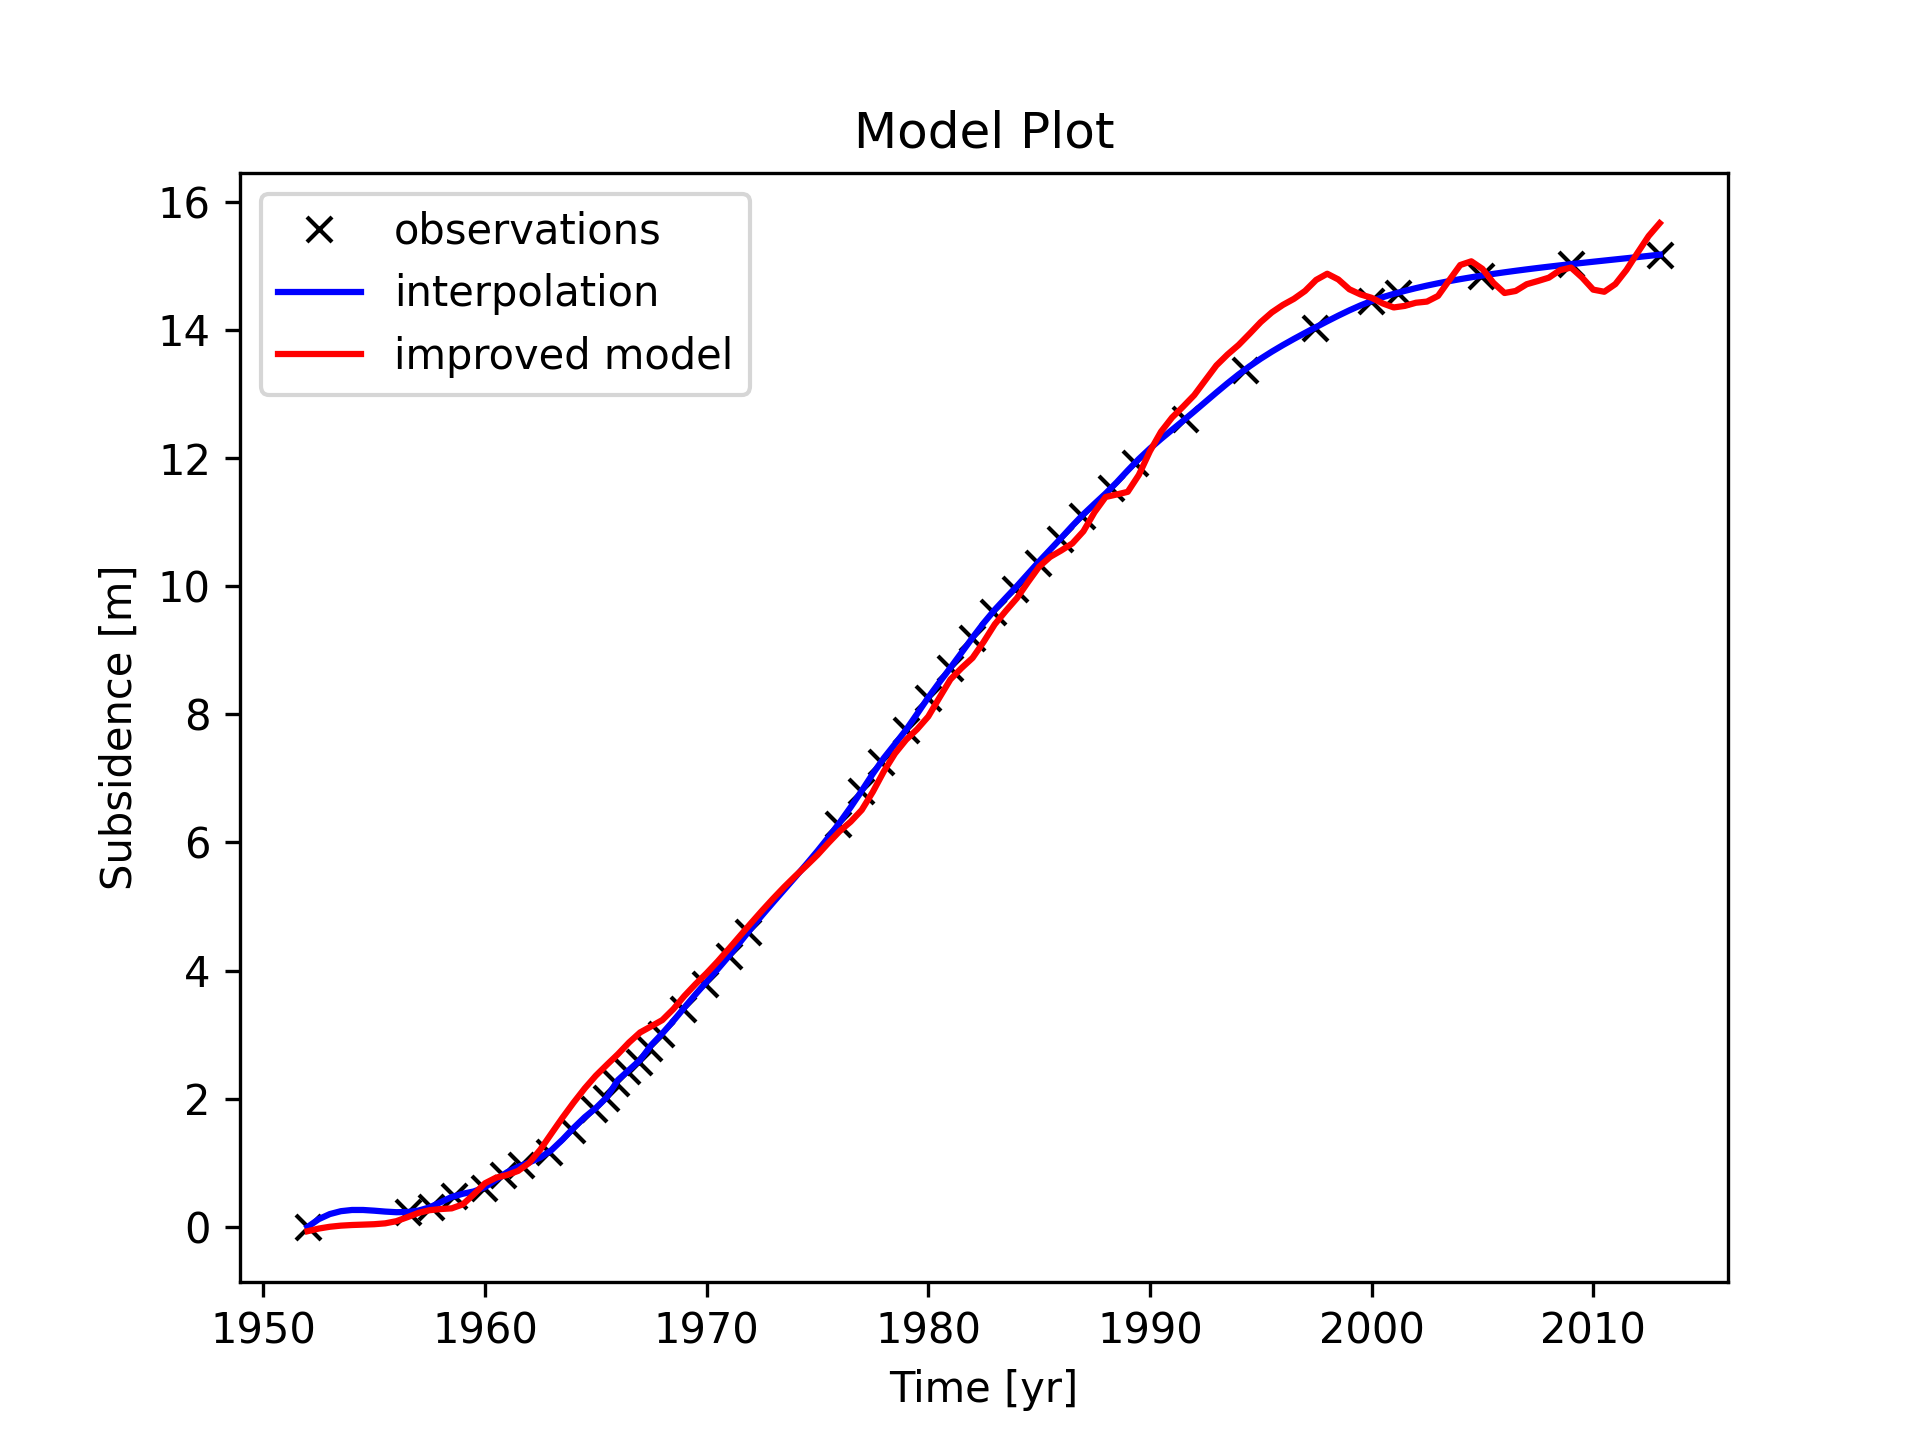
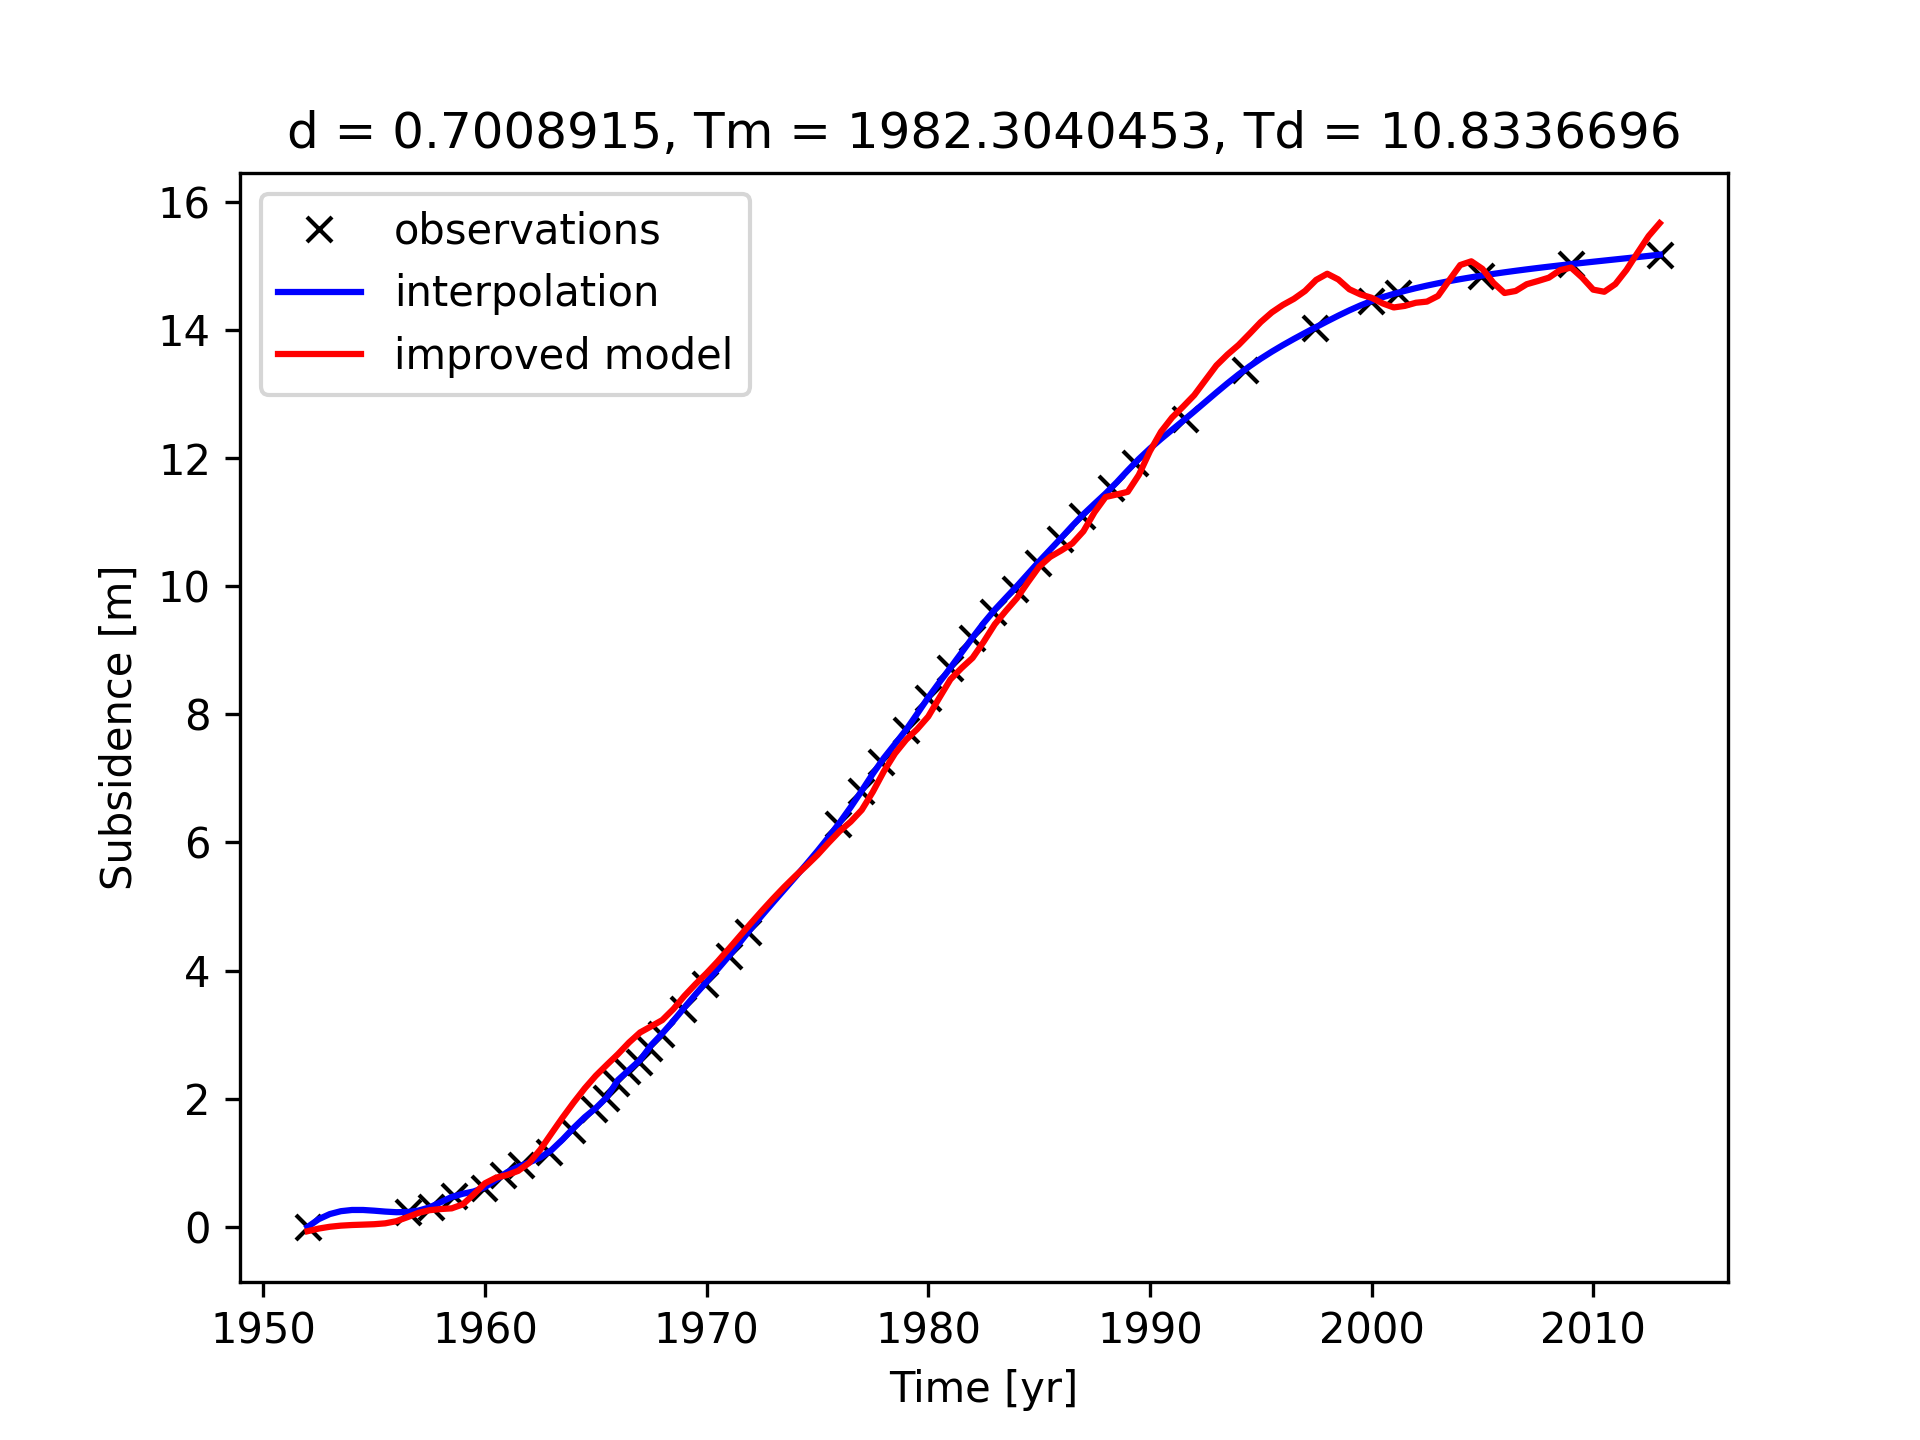
EVERYTHING IS NEARLY DONE

diff --git a/forward_prediction.py b/forward_prediction.py
@@ -277,6 +277,8 @@ def foward_subsidence_uncertainty(mass_rate_outcomes, future_pressures, subsiden
     
     Returns
     -------
+    future_subsidences : array-like
+        a list of lists of lists of future subsidence values for each mass extraction rate outcome
     Plot:
         A plot of future subsidence forecasts based on different future mass extraction rates
             and different parameter samples given as input
@@ -329,6 +331,8 @@ def foward_subsidence_uncertainty(mass_rate_outcomes, future_pressures, subsiden
     # plot model across current time domain
     ax1.plot(t_current, s_interp, label="Interpolation")
 
+    plt.axhline(y= 15.2, color='black', linestyle='--', lw= 1.4)
+
     ax1.set_xlabel('Time [year]')
     ax1.set_ylabel('Subsidence [metres]')
     ax1.set_title("Uncertainty forecast for subsidence")
@@ -341,20 +345,103 @@ def foward_subsidence_uncertainty(mass_rate_outcomes, future_pressures, subsiden
         plt.close()
 
 
+    return future_subsidences
+
+
+def final_recommendation(future_subsidences, future_subsidences_best, display=False):
+    """Plots recommended outcome and pdf-histogram to support recommendation
+
+    Parameters
+    ----------
+    future_subsidences : array-like
+        a list of lists of lists of future subsidence values for each mass extraction rate outcome
+    future_subsidences_best : array-like
+        a list of lists of future subsidence values produced by best fitted model
+    display : boolean, optional
+        boolean to either display(TRUE) or save plots(FALSE), by default False
+    """
+    t0 = 1952  # Start time domain
+    t1 = 2013  # End time domain
+    tf = 2050  # End future prediction time domain
+    dt = 0.01  # Time step
+    p0 = 56.26  # Ambient Pressure
+
+    t_current = np.arange(t0, t1+dt, dt)  # Current time domain
+    t_future = np.arange(t1, tf+dt, dt)  # Future time domain
+
+    #Load in pressure and subsidence data and interpolate
+    t_p_data, p_data = load_pressure_data()
+    p_interp = interpolate_pressure_data(t_p_data, p_data, t_current)
+    t_s_data, s_data = load_subsidence_data()
+    s_interp = interpolate_subsidence_data(t_s_data, s_data, t_current)
+
+    #Get interpolation of p_data
+    p_interp = interpolate_pressure_data(t_p_data, p_data, t_current)
+
+    f1, ax1 = plt.subplots(1, 1)
+    f2, ax2 = plt.subplots(1, 1)
+
+    for s_model in future_subsidences[2]:
+        ax1.plot(t_future, s_model, 'k-', alpha = 0.4, lw= 0.6)
+    ax1.plot([], [], 'k-',
+             label=f"Mass extraction = 900kg/s")
+
+    #Plotting best model
+    d, Tm, Td = 0.700891, 1982.304, 10.83367
+    t_range, s_fitted = solve_subsidence_model(subsidence_model, t1, tf, dt, future_subsidences_best[2], p0, [d, Tm, Td])
+    ax1.plot(t_range, s_fitted, "r-", label="best model")
+
+    #Get subsidence vals from models at t=2030
+    s_2030 = []
+    for s_model in future_subsidences[-2]:
+        s_2030.append(s_model[-1])
+    
+    hist= np.hist(s_2030, normed=True, alpha = 0.75)
+    ax2.bar(hist)
+    ax2.set_xlabel('P(s(2030))')
+    ax2.set_ylabel('Subsidence at t=2030')
+    ax2.set_title("PDF of subsidence at t=2030")
+    ax2.axvline(x= future_subsidences_best[2][-1], color= "r", linestyle= '--', label= "best model")
+
+    # plot data point
+    ax1.plot(t_s_data, s_data, 'x', color='black', label="Observations")
+    # plot model across current time domain
+    ax1.plot(t_current, s_interp, label="Interpolation")
+
+    ax1.axhline(y=15.2, color='black', linestyle='--', lw=1.4)
+
+    ax1.set_xlabel('Time [year]')
+    ax1.set_ylabel('Subsidence [metres]')
+    ax1.set_title("Recommended forecast")
+    ax1.legend()
+
+    if display:
+        f1.show()
+        f2.show()
+    else:
+        f1.savefig('recommendation', dpi=300)
+        f2.savefig('histogram', dpi=300)
+        f1.close()
+        f2.close()
+
+
 if __name__ == '__main__':
     mass_rate_outcomes = [0, 450, 900, 1250]
-    #future_pressures = forward_pressure(mass_rate_outcomes, display)
-    #future_subsidences = forward_subsidence(mass_rate_outcomes, future_pressures, display)
+    future_pressures_best = forward_pressure(mass_rate_outcomes, display)
+    future_subsidences_best = forward_subsidence(mass_rate_outcomes, future_pressures_best, display)
 
     #Sampled Parameters : 
-    N_samples = 100
+    N_samples = 20
 
     #Prediction of pressure model
     a, b, c, P = pressure_grid_search()
     pressure_samples = construct_pressure_samples(a, b, c, P, N_samples)
-    future_pressures = foward_pressure_uncertainty(mass_rate_outcomes, pressure_samples)
+    future_pressures = foward_pressure_uncertainty(mass_rate_outcomes, pressure_samples, display)
 
     #Prediction of subsidence model
     d, Tm, Td, P = subsidence_grid_search()
     subsidence_samples = construct_subsidence_samples(d, Tm, Td, P, N_samples)
-    foward_subsidence_uncertainty(mass_rate_outcomes, future_pressures, subsidence_samples)
+    future_subsidences= foward_subsidence_uncertainty(mass_rate_outcomes, future_pressures, subsidence_samples, display)
+
+    #Plot to help with reccomendation - NoT WORKING YET!!!
+    #final_recommendation(future_subsidences, future_subsidences_best, display)

diff --git a/callibration.py b/callibration.py
@@ -195,7 +195,7 @@ def plot_subsidence_model(display= False):
 
     plt.xlabel('Time [yr]')
     plt.ylabel('Subsidence [m]')
-    plt.title('Model Plot')
+    plt.title('d = %.7f, Tm = %.7f, Td = %.7f' %(d_const, Tm_const, Td_const))
     plt.legend()
     
     if display:
@@ -332,7 +332,7 @@ def plot_subsidence_misfit(d, Tm, Td, display= False):
 
 
 if __name__ == "__main__":
-    #a, b, c = plot_pressure_model(display)
+    a, b, c = plot_pressure_model(display)
     d, Tm, Td = plot_subsidence_model(display)
-    #plot_pressure_misfit(a, b, c, display)
-    #plot_subsidence_misfit(d, Tm, Td, display)
+    plot_pressure_misfit(a, b, c, display)
+    plot_subsidence_misfit(d, Tm, Td, display)

diff --git a/uncertainty.py b/uncertainty.py
@@ -116,7 +116,7 @@ def pressure_grid_search():
 	c_best = 0.0080875
 
 	# number of values considered for each parameter within a given interval
-	N = 51
+	N = 11
 
 	# vectors of parameter values
 	a = np.linspace(a_best/2, a_best*1.5, N)
@@ -184,7 +184,7 @@ def subsidence_grid_search():
 	Td_best = 10.8336
 
 	# number of values considered for each parameter within a given interval
-	N = 51
+	N = 11
 	# vectors of parameter values
 	d = np.linspace(d_best/2, d_best*1.5, N)
 	Tm = np.linspace(Tm_best/2, Tm_best*1.5, N)
